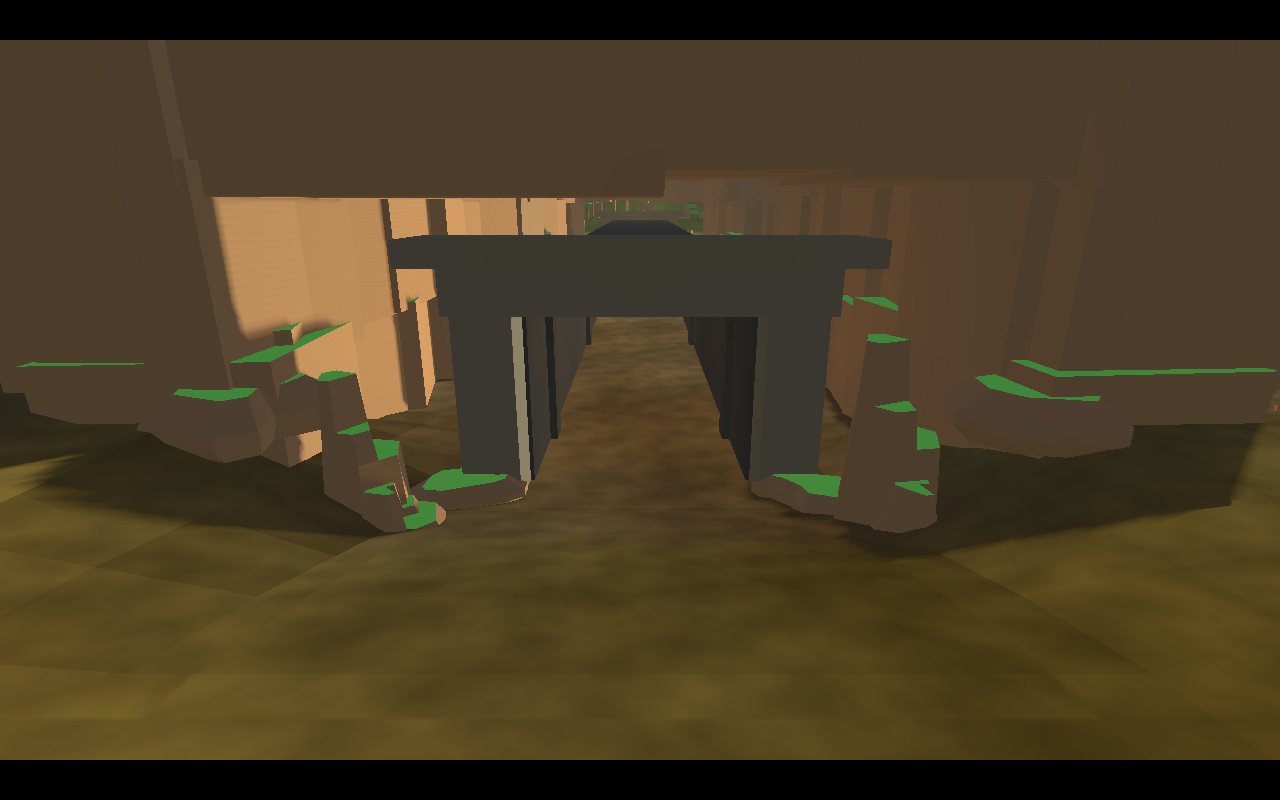
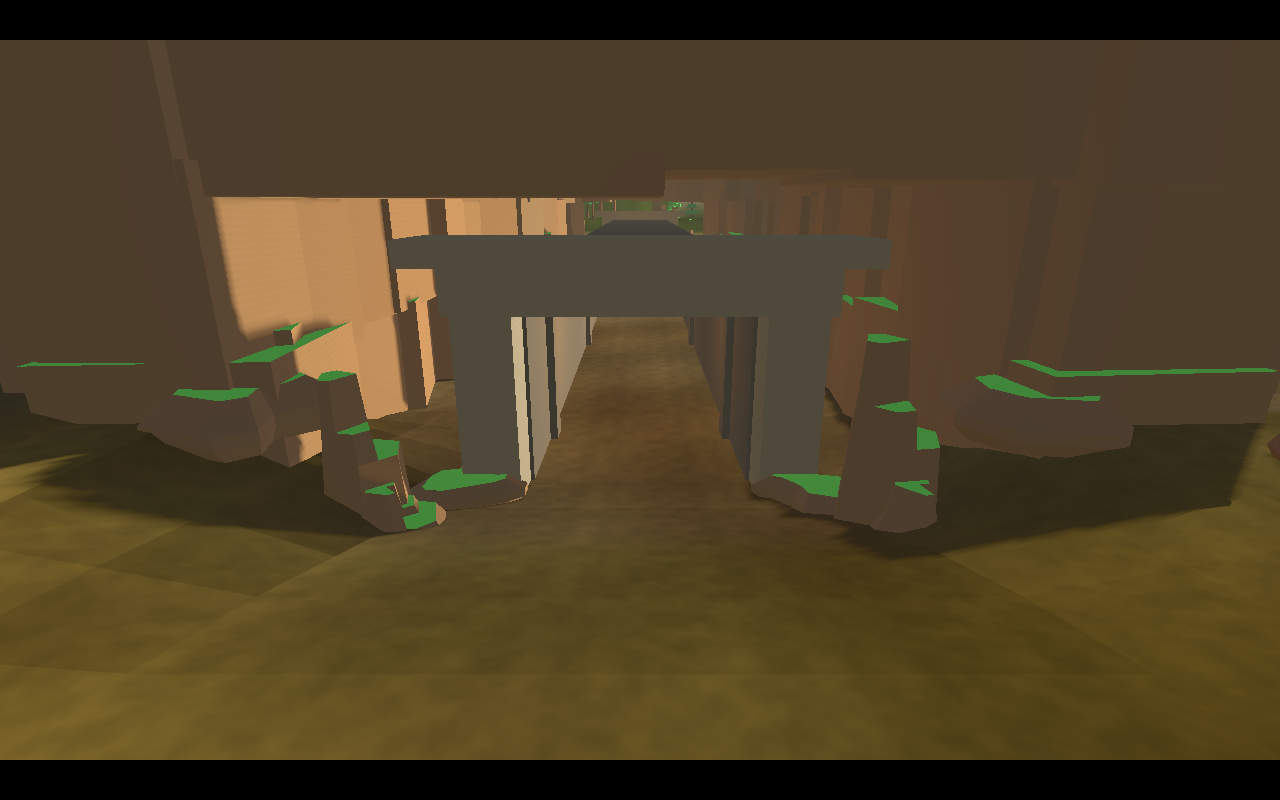
Map polish: stone lighting, ground detail, central cover, ring skyline

Changed region(s): [[0.375, 0.375, 0.4688, 0.5938], [0.5312, 0.375, 0.5938, 0.5938], [0.5, 0.25, 0.5625, 0.2812]]

diff --git a/docs/PLAN.md b/docs/PLAN.md
@@ -119,8 +119,8 @@ while the server hits is expected under lag and is better than an invisible one.
 - **Spawns/boundary:** `Spawn01`…`Spawn08`, snapped to the height field, ≥ 22 m apart, none
   blocked. Invisible 40 m boundary walls at ±69.5 m plus the mountain ring/rock faces stop the
   player and the third-person spring arm.
-- **Budget:** 49 draw calls, 190,110 triangles, 1,798 MultiMesh instances, 353 static colliders
-  (quarry); hard limits remain 150 / 250k. Web export: 44,752 KB raw, **14,219 KB gzip**.
+- **Budget:** 49 draw calls, 192,842 triangles, 1,832 MultiMesh instances, 387 static colliders
+  (quarry); hard limits remain 150 / 250k. Web export: 44,752 KB raw, **14,222 KB gzip**.
 - **Tests:** `tests/gdunit/test_quarry_arena.gd` (9 cases: load, mesh/heightmap parity, spawns,
   cave clearance, hero colliders, walkable routes, boundary, camera wall, main-scene wiring);
   `tests/headless/arena_stats.gd` now validates both maps; `tests/headless/quarry_match.gd`
@@ -128,7 +128,7 @@ while the server hits is expected under lag and is better than an invisible one.
 - **QA walkthrough:** `tests/headless/quarry_walk.gd` drives the real `PlayerController` /
   `LocomotionComponent` through 35 sections (all 9 chunks, both cave directions including the
   aprons, six ramp directions, bridge, tower, raised lookout, all 8 spawns, four edges and three
-  platform falls). Result: **PASS**, 536.1 m travelled, 0 fall-through, 0 camera clips, 0
+  platform falls). Result: **PASS**, 536.5 m travelled, 0 fall-through, 0 camera clips, 0
   stuck episodes over 1.5 s (the only long stationary periods are the expected edge pushes).
 - **Map fixes from the walkthrough:** cave mouth aprons flattened to the tunnel floor; a boulder
   and two trees removed from the west/east ramp lanes; a tree removed from the cave approach;
@@ -136,7 +136,12 @@ while the server hits is expected under lag and is better than an invisible one.
   real 1.6 m platform with a sloped ramp (vertical step boxes are not climbable by this
   controller); spawns 7/8 moved onto flat benches; cave floor z-fighting removed; cave lamps and
   wood/stone values raised for web readability.
-- **Verified:** four bots moved 47–108 m and produced 74 shots / 29 hits / 3 deaths on the new
+- **Finish pass:** raised stone/cave/wood authored albedo so `srgb_to_linear()` no longer
+  collapses shadowed stone to near-black; replaced the blurred triplanar noise with a seamless
+  256 px three-octave value-noise grain at 0.34 world scale; added eight central boulder/ruin
+  clusters; replaced floating skyline props with sixteen heightfield ring outcrops plus the
+  existing pine toe clusters; fixed the QA camera that was intersecting a tree canopy.
+- **Verified:** four bots moved 39–122 m and produced 112 shots / 27 hits / 4 deaths on the new
   map; 113 gdUnit cases green; 35 walkthrough sections green; web console clean.
 
 ## 3b. Class weapons + bigger playground (research prompt)

diff --git a/docs/BACKLOG.md b/docs/BACKLOG.md
@@ -24,7 +24,8 @@ Status: `todo` · `doing` · `done` · `deferred`
 | S33 | Firefox compatibility | Deprecated `try`, depth-filter/attrib-0/viewport WebGL warnings, `file://` security error, audio autoplay, background-tab throttle | deferred | CP5 |
 | S52 | Damage/scope pass | Head hitbox + headshot multiplier removed; bleed/spread/effect/armour_pierce/gravity removed; flat rounds inherit shooter velocity (experimental); Knight 34, Mage 18 + 8 splash (mag 12), bow 60, crossbow 12, Barbarian 34 → 3-hit kills; Knight reload 1.4 s | done | CP5 |
 | S51 | Class balance pass | Projectiles −30 % speed; Mage cycle +40 %, damage −20 %; crossbow 18/36; heavy gravity 12/10; pierce second-hurtbox fix | done | CP5 |
-| S50 | Sunken Quarry arena | 150×150 m, 3×3 mesh chunks, heightmap/collision, 61 m double-wall cave, rock skirts, MultiMesh foliage, 8 spawns; 49 draw calls / 190,110 tris | done | CP5 |
+| S50 | Sunken Quarry arena | 150×150 m, 3×3 mesh chunks, heightmap/collision, 61 m double-wall cave, rock skirts, MultiMesh foliage, 8 spawns; 49 draw calls / 192,842 tris | done | CP5 |
+| S54 | Map finish pass | Stone shading fixed after linear conversion; seamless gravel grain; 8 central cover clusters; 16 heightfield ring outcrops; cave/terrace screenshots refreshed | done | CP5 |
 | S53 | Map QA walkthrough | Real-physics 35-section harness (chunks, cave, ramps, bridge, tower, lookout, spawns, edges, falls); fixed cave aprons, ramp lane blockers, bridge lip/east landing, lookout access, spawn slopes, cave floor z-fighting | done | CP5 |
 | S49 | Class weapons v1 | Five class profiles, picker (`?class=`), per-class variants/models/animations/HUD; M4 retired for now; Quaternius CC0 spear/bow models | done | CP5 |
 | S48 | Class weapons + bigger map research | Report + decisions at `docs/research/weapons-and-arena.md` / `WEAPONS-DECISIONS.md` | done | CP5 |

diff --git a/docs/TESTING.md b/docs/TESTING.md
@@ -58,9 +58,10 @@ Exit codes: `0` green, `100` test failure. `check.sh` relies on both the exit co
 | `tests/gdunit/test_sanity.gd` | 2 | 2 | toolchain canary: runner + scene instantiation |
 
 **113 test cases · ~940 assertions**, plus **35 walkthrough sections** and the 4-bot match.
-Quarry budget: 49 draw calls, 190,110 triangles; web export 44,752 KB raw / 14,219 KB gzip.
-Walkthrough: 536.1 m, 0 fall-through, 0 camera clips, 0 stuck episodes over 1.5 s. `test_net_loopback` stays one integration test: the value is the
-real socket path and shared tick, and re-establishing three peers per assertion would triple runtime.
+Quarry budget: 49 draw calls, 192,842 triangles; web export 44,752 KB raw / 14,222 KB gzip.
+Walkthrough: 536.5 m, 0 fall-through, 0 camera clips, 0 stuck episodes over 1.5 s.
+
+`test_net_loopback` stays one integration test: the value is the real socket path and shared tick, and re-establishing three peers per assertion would triple runtime.
 Loopback tests disable the local `_physics_process` and drive `simulate_tick()` explicitly, so the
 prediction path is identical to real input without competing sequences.
 
